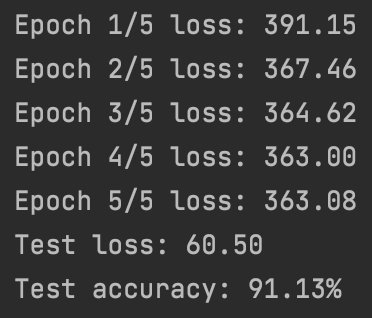
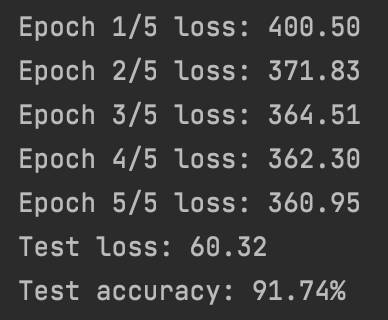
Swapped positional embedding order (first add classification token, then do positional embedding).

diff --git a/vit/vit_torch.py b/vit/vit_torch.py
@@ -66,11 +66,11 @@ class MyViT(nn.Module):
         # Running linear layer for tokenization
         tokens = self.linear_mapper(patches)
 
-        # Adding positional embedding
-        tokens += get_positional_embeddings(self.n_patches ** 2, self.hidden_d).repeat(n, 1, 1)
-
         # Adding classification token to the tokens
         tokens = torch.stack([torch.vstack((self.class_token, tokens[i])) for i in range(len(tokens))])
+
+        # Adding positional embedding
+        tokens += get_positional_embeddings(self.n_patches ** 2 + 1, self.hidden_d).repeat(n, 1, 1)
 
         # TRANSFORMER ENCODER BEGINS ###################################
         # NOTICE: MULTIPLE ENCODER BLOCKS CAN BE STACKED TOGETHER ######
